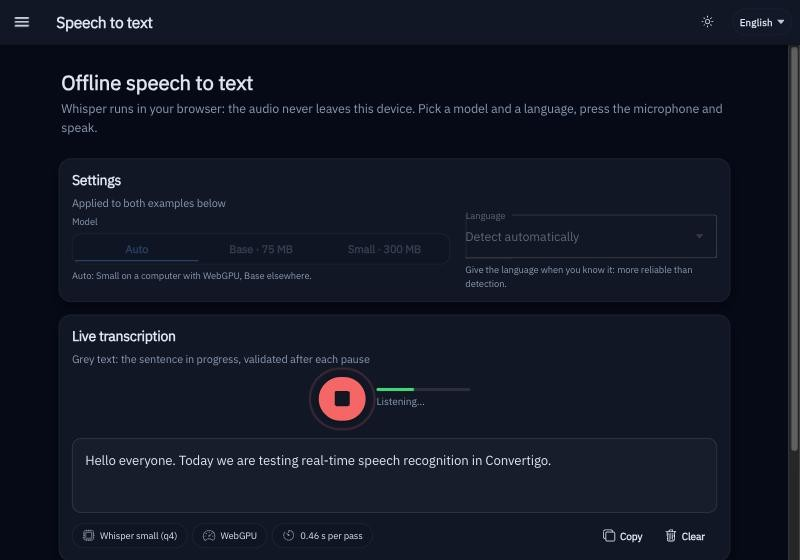
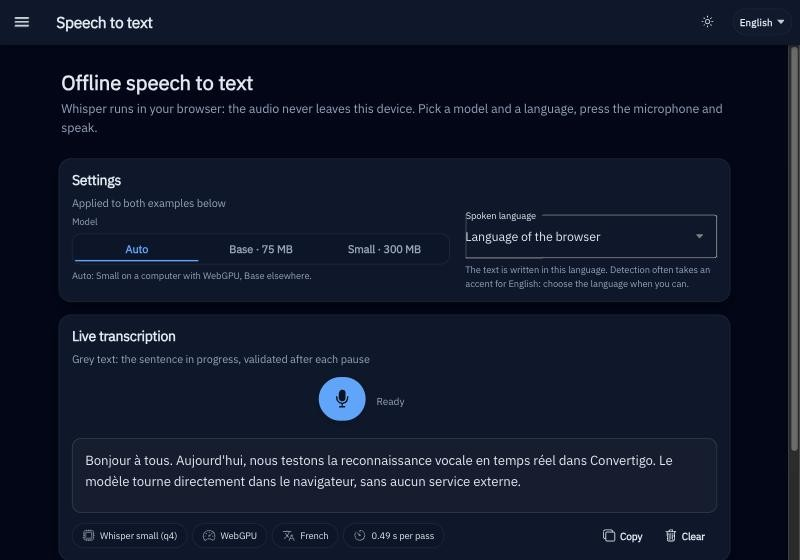
Spoken language defaults to the browser language
Whisper detection on short pieces of speech often took an accent for
English and wrote English while the user spoke French. language now
accepts an ISO code or a Whisper name, empty means the first browser
language Whisper knows, and 'auto' opts in to detection. The Ready event
and the state give the language used.

The example page names the setting Spoken language, offers the browser
language and detection, and shows the language used in a chip.

diff --git a/DisplayObjects/stt/stt-engine.js b/DisplayObjects/stt/stt-engine.js
@@ -5,15 +5,47 @@
 //   const { speechToText } = await import(libUrl + 'stt-engine.js');
 //   const stt = speechToText();
 //   const off = stt.on((e) => { ... });   // every event, see emit() below
-//   await stt.load({ model: 'auto', language: '', modelsUrl: '' });
+//   await stt.load({ model: 'auto', language: '', modelsUrl: '' });   // '' = language of the browser
 //   await stt.start(ownerId, { micProcessing: true });  …  stt.stop();
 //
-// Events: {type:'state', state} after every change, {type:'ready', model, device, reason, loadMs},
+// Events: {type:'state', state} after every change, {type:'ready', model, device, reason, loadMs, language},
 // {type:'partial', owner, text}, {type:'final', owner, text}, {type:'done', owner}, {type:'error', owner, message},
 // {type:'stats', kind, ms, audioS}. state = {status, ready, loading, listening, finishing, speaking, level, model,
-// device, reason, loadMs, progress, owner, error}.
+// device, reason, loadMs, progress, owner, error, language ('auto' when detected)}.
 
 const LIB_URL = new URL('./', import.meta.url).href;
+
+// ISO 639-1 codes of the languages Whisper knows best, to their Whisper names
+const LANGS = {
+	en: 'english', fr: 'french', es: 'spanish', de: 'german', it: 'italian', pt: 'portuguese', nl: 'dutch', pl: 'polish',
+	ru: 'russian', uk: 'ukrainian', cs: 'czech', sk: 'slovak', ro: 'romanian', hu: 'hungarian', el: 'greek', bg: 'bulgarian',
+	hr: 'croatian', sr: 'serbian', sl: 'slovenian', sv: 'swedish', da: 'danish', no: 'norwegian', nb: 'norwegian',
+	nn: 'nynorsk', fi: 'finnish', et: 'estonian', lv: 'latvian', lt: 'lithuanian', ca: 'catalan', eu: 'basque',
+	gl: 'galician', tr: 'turkish', ar: 'arabic', he: 'hebrew', fa: 'persian', hi: 'hindi', ur: 'urdu', bn: 'bengali',
+	ta: 'tamil', ja: 'japanese', zh: 'chinese', ko: 'korean', vi: 'vietnamese', th: 'thai', id: 'indonesian',
+	ms: 'malay', tl: 'tagalog', sw: 'swahili', af: 'afrikaans',
+};
+
+// Spoken language given to Whisper: a Whisper name ('french') or an ISO code ('fr', 'fr-FR') as given; 'auto' to let
+// Whisper detect it at each pass; empty: the first language of the browser that Whisper knows (detection otherwise).
+// Detection on short pieces of speech often takes an accent for English and then writes English, so it is opt-in.
+function resolveLanguage(value) {
+	const v = (value === undefined || value === null ? '' : String(value)).trim().toLowerCase();
+	if (v === 'auto') {
+		return '';
+	}
+	if (!v) {
+		const prefs = (navigator.languages && navigator.languages.length ? navigator.languages : [navigator.language]) || [];
+		for (const l of prefs) {
+			const name = LANGS[String(l || '').toLowerCase().split(/[-_]/)[0]];
+			if (name) {
+				return name;
+			}
+		}
+		return '';
+	}
+	return LANGS[v.split(/[-_]/)[0]] || v;
+}
 
 // <server>/convertigo/projects/<model project>/DisplayObjects/models/ next to this library
 function defaultModelUrl(project) {
@@ -38,7 +70,7 @@ class SpeechToTextEngine {
 		this.source = null;
 		this.state = {
 			status: 'idle', ready: false, loading: false, listening: false, finishing: false, speaking: false, level: 0,
-			model: '', device: '', reason: '', loadMs: 0, progress: 0, owner: null, error: '',
+			model: '', device: '', reason: '', loadMs: 0, progress: 0, owner: null, error: '', language: '',
 		};
 	}
 
@@ -63,12 +95,12 @@ class SpeechToTextEngine {
 		this.emit({ type: 'state', state: { ...this.state } });
 	}
 
-	// Loads the model (once per configuration). Options: model 'auto'|'base'|'small', language (Whisper name such as
-	// 'english' or 'french'; empty to detect it), modelsUrl (folder holding onnx-community/<model>/ for both models; empty: the model
+	// Loads the model (once per configuration). Options: model 'auto'|'base'|'small', language (see resolveLanguage:
+	// Whisper name, ISO code, 'auto' to detect it, empty for the language of the browser), modelsUrl (folder holding onnx-community/<model>/ for both models; empty: the model
 	// projects deployed on this server). Resolves with the ready event.
 	load(options = {}) {
 		const model = options.model || 'auto';
-		const language = options.language ? String(options.language) : '';
+		const language = resolveLanguage(options.language);
 		// absolute URL: the worker (and transformers.js) cannot resolve a path relative to the page
 		const modelsUrl = options.modelsUrl ? withSlash(new URL(String(options.modelsUrl), document.baseURI).href) : '';
 		const key = JSON.stringify([model, language, modelsUrl]);
@@ -80,7 +112,7 @@ class SpeechToTextEngine {
 			this.worker.terminate();
 		}
 		this.config = key;
-		this.setState({ status: 'loading', ready: false, loading: true, model: '', device: '', reason: '', loadMs: 0, progress: 0, error: '' });
+		this.setState({ status: 'loading', ready: false, loading: true, model: '', device: '', reason: '', loadMs: 0, progress: 0, error: '', language: language || 'auto' });
 		const worker = new Worker(LIB_URL + 'stt-worker.js', { type: 'module' });
 		this.worker = worker;
 		this.readyPromise = new Promise((resolve, reject) => {
@@ -115,7 +147,7 @@ class SpeechToTextEngine {
 				this.setState({ progress: m.total ? Math.round(m.loaded * 100 / m.total) : 0 });
 				break;
 			case 'ready': {
-				const ready = { type: 'ready', model: m.model, device: m.device, reason: m.reason, loadMs: m.ms };
+				const ready = { type: 'ready', model: m.model, device: m.device, reason: m.reason, loadMs: m.ms, language: this.state.language };
 				this.setState({ status: 'ready', ready: true, loading: false, model: m.model, device: m.device, reason: m.reason, loadMs: m.ms, progress: 100 });
 				this.emit(ready);
 				resolve(ready);
@@ -237,3 +269,4 @@ export function speechToText() {
 }
 
 export const libUrl = LIB_URL;
+export { resolveLanguage };

diff --git a/README.md b/README.md
@@ -58,10 +58,18 @@ of the model projects), or give `modelsUrl` to the component. The symbol is comp
 
 ## Languages
 
-Whisper base and small are multilingual: one model recognises 99 languages. Set `language` to a Whisper language name
-(`'english'`, `'french'`, `'spanish'`, `'german'`, `'italian'`, `'portuguese'`, `'dutch'`, `'japanese'`, `'chinese'`…)
-or leave it empty to detect the language at each pass. Give it when you know it: detection on short pieces of speech
-can switch language from one pass to the next, and a fixed language is a bit faster.
+Whisper base and small are multilingual: one model recognises 99 languages. `language` is the language the user
+speaks, and the text is written in it:
+
+| `language` | Language used |
+| --- | --- |
+| `''` (default) | the first language of the browser that Whisper knows (`fr-FR` gives French) |
+| `'fr'`, `'en-US'`… | the language of this ISO code |
+| `'french'`, `'english'`… | this Whisper language name |
+| `'auto'` | detected by Whisper at each pass |
+
+Avoid `'auto'` when you can: on short pieces of speech and real microphones, the small models often take an accent for
+English, and then write English while the user speaks another language. The `Ready` event gives the language used.
 
 English is recognised best, then the main European languages (good with Small, correct with Base); languages with
 little training data are much weaker with these small models.
@@ -76,7 +84,7 @@ model and one microphone, and each receives only the text of its own dictation.
 | Variable | Default | Description |
 | --- | --- | --- |
 | `model` | `'auto'` | `'auto'`, `'base'` or `'small'` |
-| `language` | `''` | Whisper language name (`'english'`, `'french'`…); empty to detect it at each pass |
+| `language` | `''` | spoken language: empty for the browser language, an ISO code (`'fr'`), a Whisper name (`'french'`) or `'auto'` (see [Languages](#languages)) |
 | `modelsUrl` | `'${lib_speechtotext.models.url=}'` | folder holding `onnx-community/<model>/`; empty: the model projects of the server |
 | `micProcessing` | `true` | echo cancellation, noise suppression and automatic gain of the browser; turn it off if words are cut or distorted |
 | `preload` | `true` | load the model when the component shows, or at the first click |
@@ -88,8 +96,8 @@ model and one microphone, and each receives only the text of its own dictation.
 | `Partial` | provisional text of the sentence in progress, several times per second |
 | `Final` | validated sentence, after each pause and at the stop |
 | `Done` | everything said before the stop is transcribed |
-| `Ready` | `{model, device, reason, loadMs}` |
-| `StateChanged` | `{status, ready, loading, listening, finishing, speaking, level, model, device, reason, loadMs, progress, error}` |
+| `Ready` | `{model, device, reason, loadMs, language}` |
+| `StateChanged` | `{status, ready, loading, listening, finishing, speaking, level, model, device, reason, loadMs, progress, error, language}` |
 | `Stats` | `{kind: 'partial' or 'final', ms, audioS}` for each transcription pass |
 | `Error` | message: microphone refused, model project not deployed, worker failure |
 
